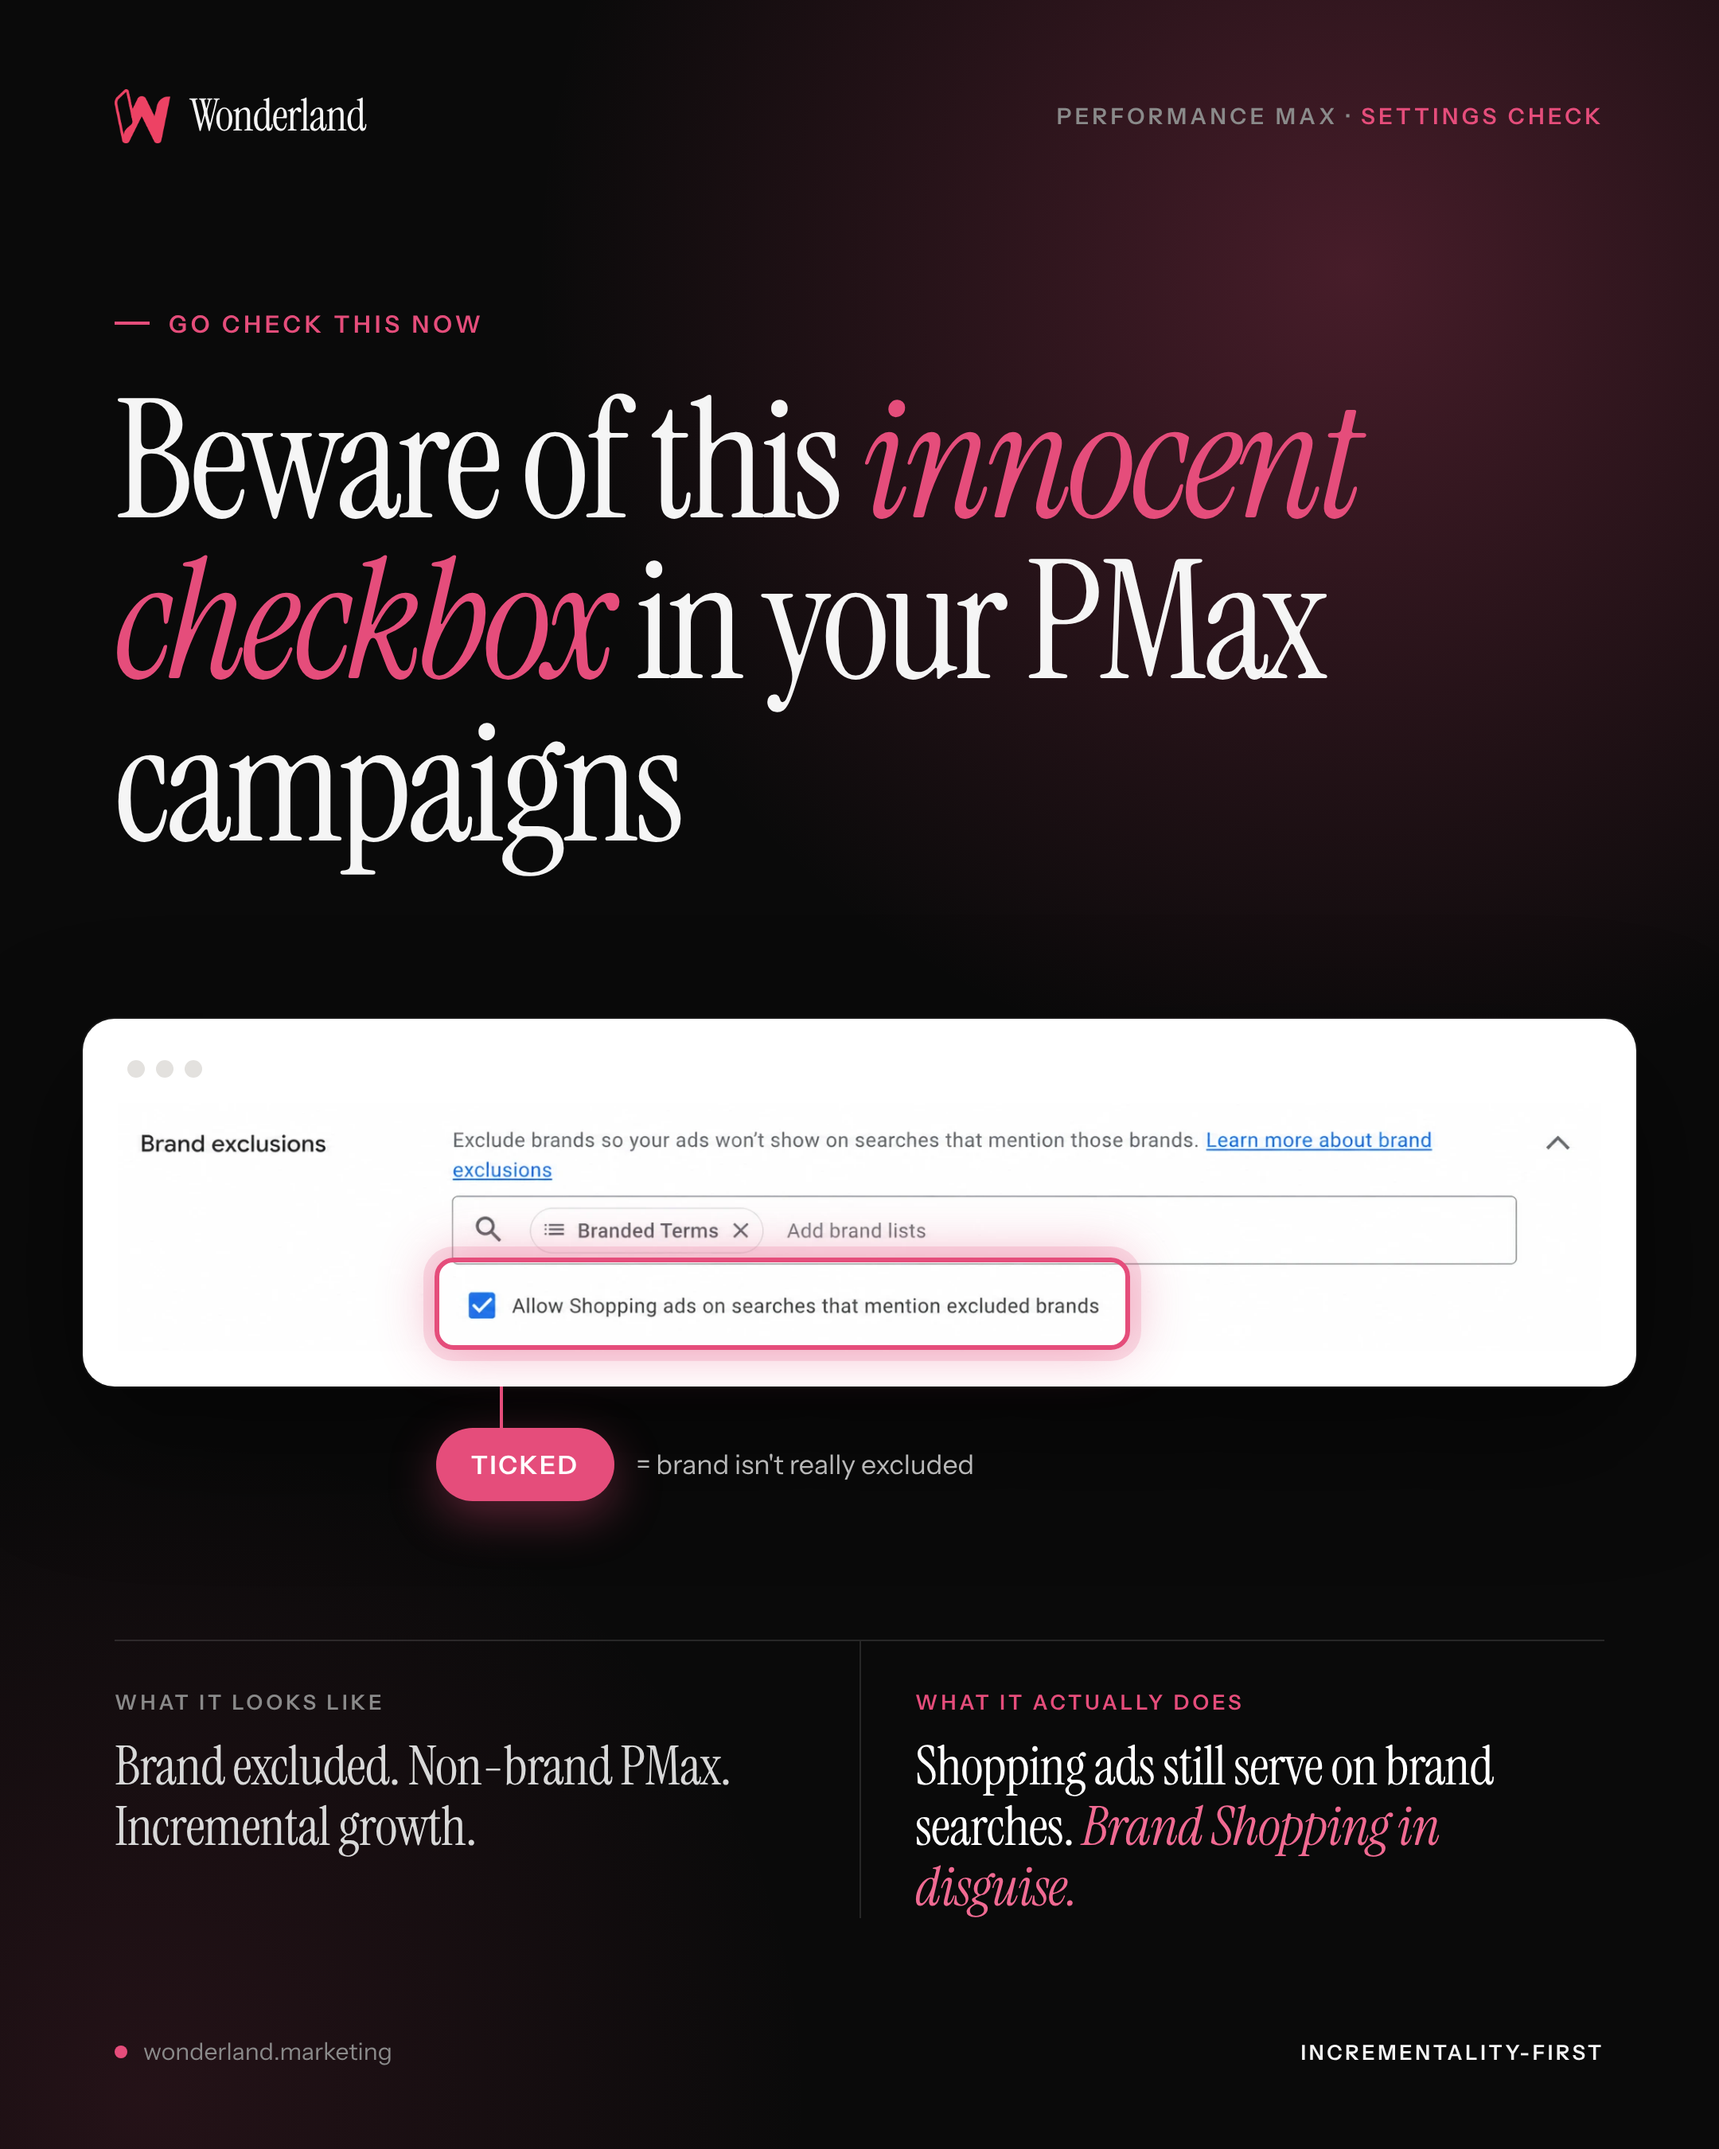
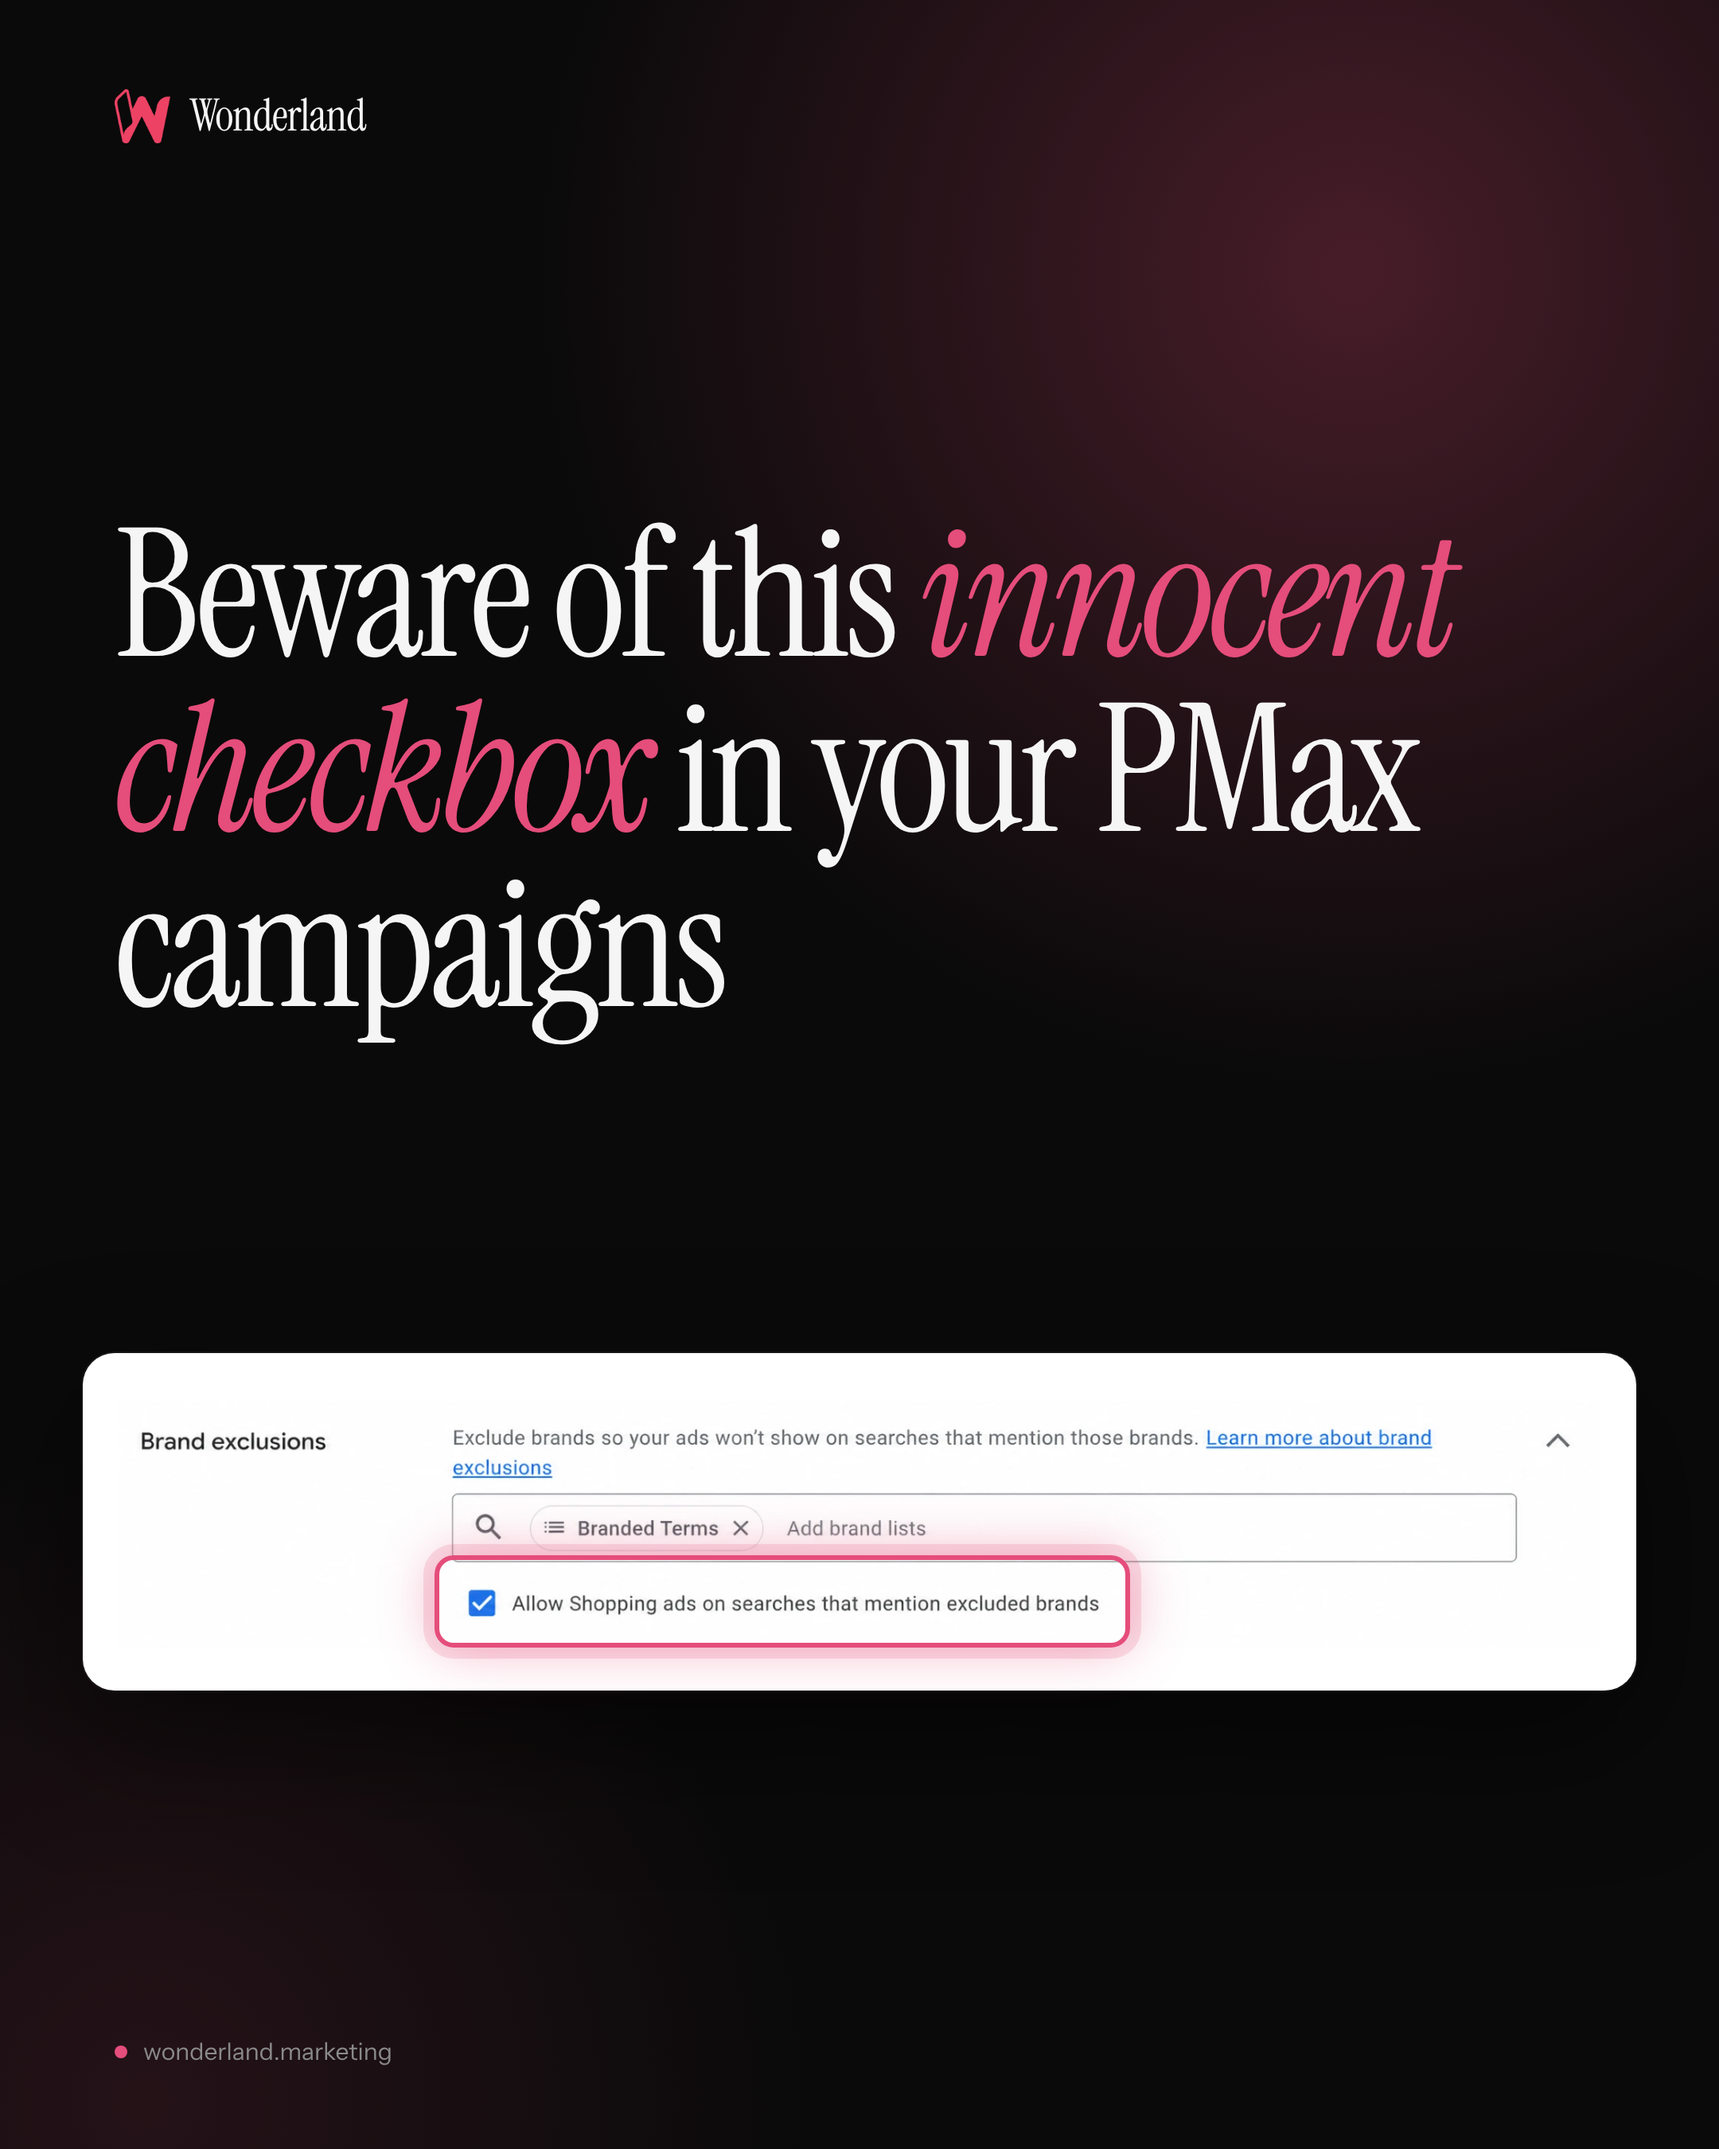
Simplify PMax checkbox image to title + screenshot
Claude-Session: https://claude.ai/code/session_01GmuALp36MAm8YJYmwJ5Ddd

diff --git a/drafts/pmax-checkbox-post/index.html b/drafts/pmax-checkbox-post/index.html
@@ -25,14 +25,14 @@
   .crumb { font-size: 14px; font-weight: 600; letter-spacing: .16em; text-transform: uppercase; color: var(--muted); }
   .crumb b { color: var(--fuchsia); font-weight: 600; }
 
-  .head { position: absolute; top: 188px; left: 72px; right: 72px; z-index: 2; }
+  .head { position: absolute; top: 320px; left: 72px; right: 72px; z-index: 2; }
   .label { display: inline-flex; align-items: center; gap: 12px; color: var(--fuchsia); font-size: 15px; font-weight: 600; letter-spacing: .16em; text-transform: uppercase; }
   .label::before { content: ''; width: 22px; height: 2px; background: currentColor; }
-  h1 { font-family: var(--display); font-weight: 400; font-size: 104px; line-height: .98; letter-spacing: -0.03em; margin-top: 26px; }
+  h1 { font-family: var(--display); font-weight: 400; font-size: 112px; line-height: .98; letter-spacing: -0.03em; }
   h1 em { font-style: italic; color: var(--fuchsia); }
 
-  .shot { position: absolute; top: 640px; left: 52px; right: 52px; z-index: 2; }
-  .card { position: relative; background: #fff; border-radius: 20px; padding: 26px 22px 22px; box-shadow: 0 30px 80px rgba(0,0,0,.55), 0 0 0 1px rgba(255,255,255,.06); }
+  .shot { position: absolute; top: 850px; left: 52px; right: 52px; z-index: 2; }
+  .card { position: relative; background: #fff; border-radius: 20px; padding: 30px 22px 26px; box-shadow: 0 30px 80px rgba(0,0,0,.55), 0 0 0 1px rgba(255,255,255,.06); }
   .chrome { display: flex; gap: 7px; margin: 0 0 16px 6px; }
   .chrome i { width: 11px; height: 11px; border-radius: 50%; background: #e3e1de; }
   .img { position: relative; }
@@ -64,39 +64,23 @@
 
   <div class="top">
     <div class="lockup"><img src="icon.png" alt=""><span>Wonderland</span></div>
-    <span class="crumb">Performance Max · <b>Settings check</b></span>
   </div>
 
   <div class="head">
-    <span class="label">Go check this now</span>
     <h1>Beware of this <em>innocent checkbox</em> in your PMax campaigns</h1>
   </div>
 
   <div class="shot">
     <div class="card">
-      <div class="chrome"><i></i><i></i><i></i></div>
       <div class="img">
         <img src="checkbox-crop.png" alt="Google Ads brand exclusions setting with 'Allow Shopping ads on searches that mention excluded brands' ticked">
         <div class="ring"></div>
       </div>
     </div>
-    <div class="callout"><span class="tag">Ticked</span><span class="note">= brand isn't really excluded</span></div>
-  </div>
-
-  <div class="split">
-    <div>
-      <h4>What it looks like</h4>
-      <p>Brand excluded. Non-brand PMax. Incremental growth.</p>
-    </div>
-    <div class="yes">
-      <h4>What it actually does</h4>
-      <p>Shopping ads still serve on brand searches. <em>Brand Shopping in disguise.</em></p>
-    </div>
   </div>
 
   <div class="foot">
     <span><span class="dot"></span>wonderland.marketing</span>
-    <b>Incrementality-first</b>
   </div>
 </div>
 </body>
